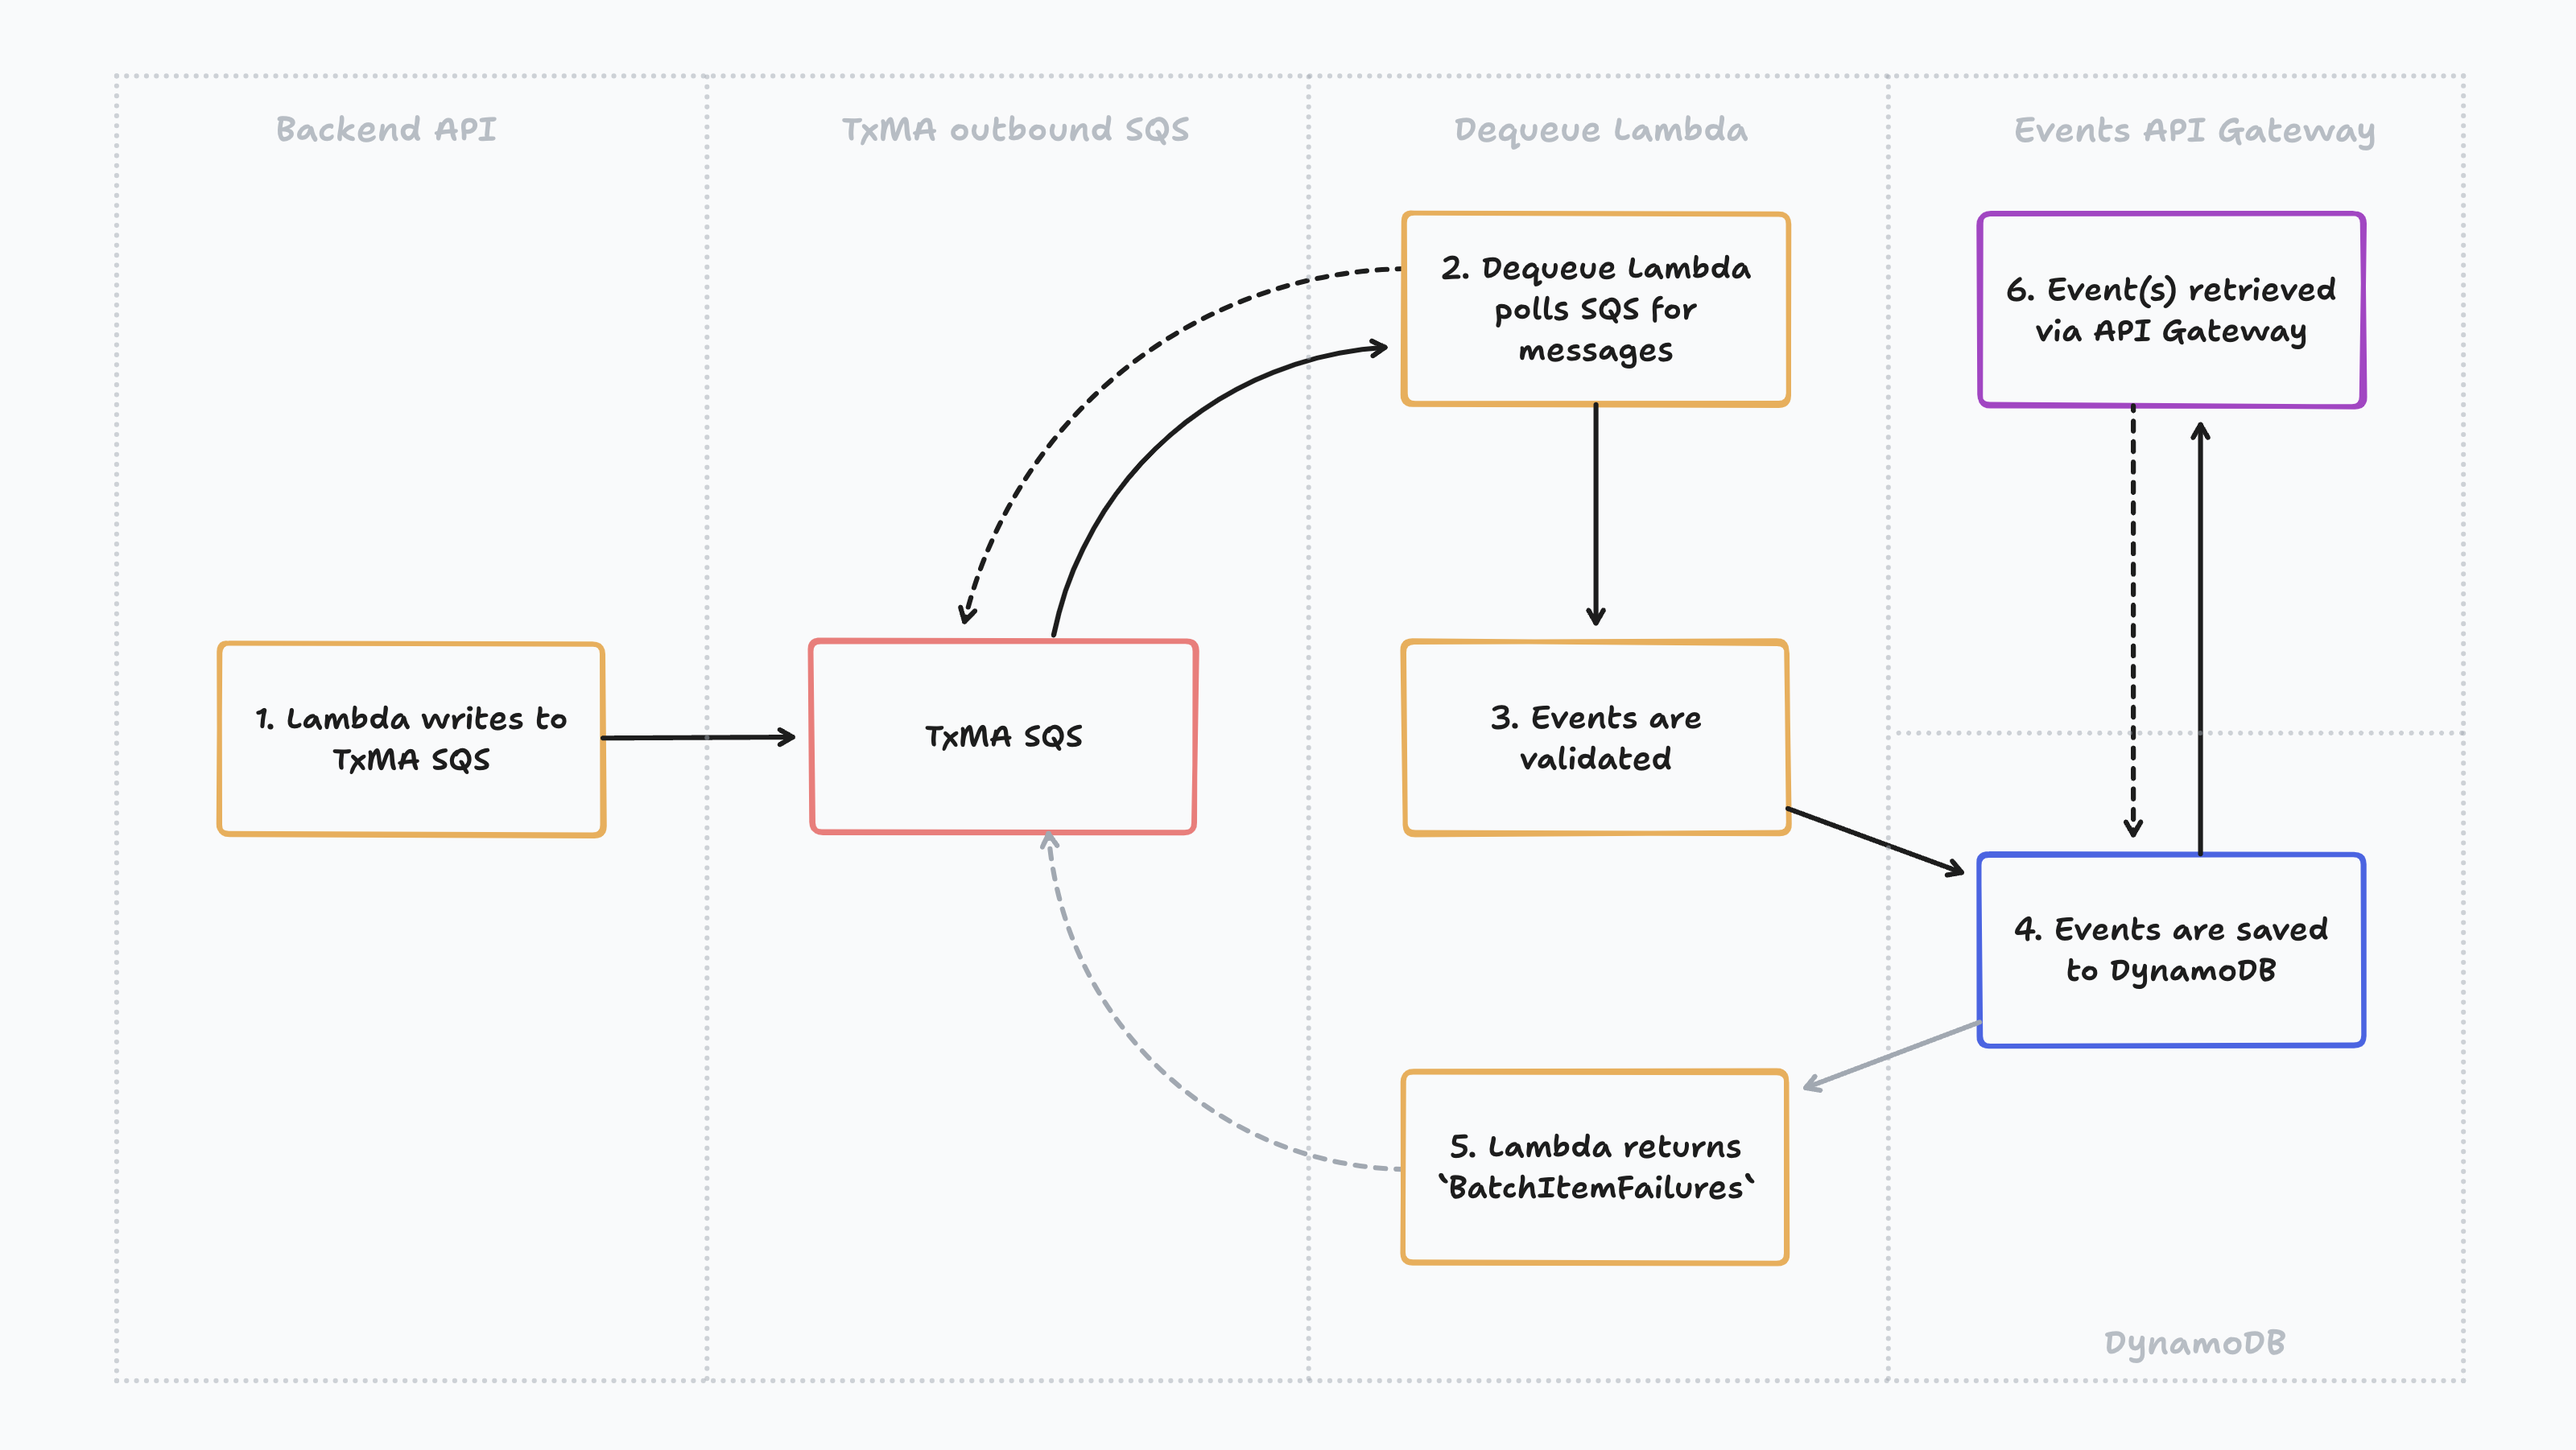
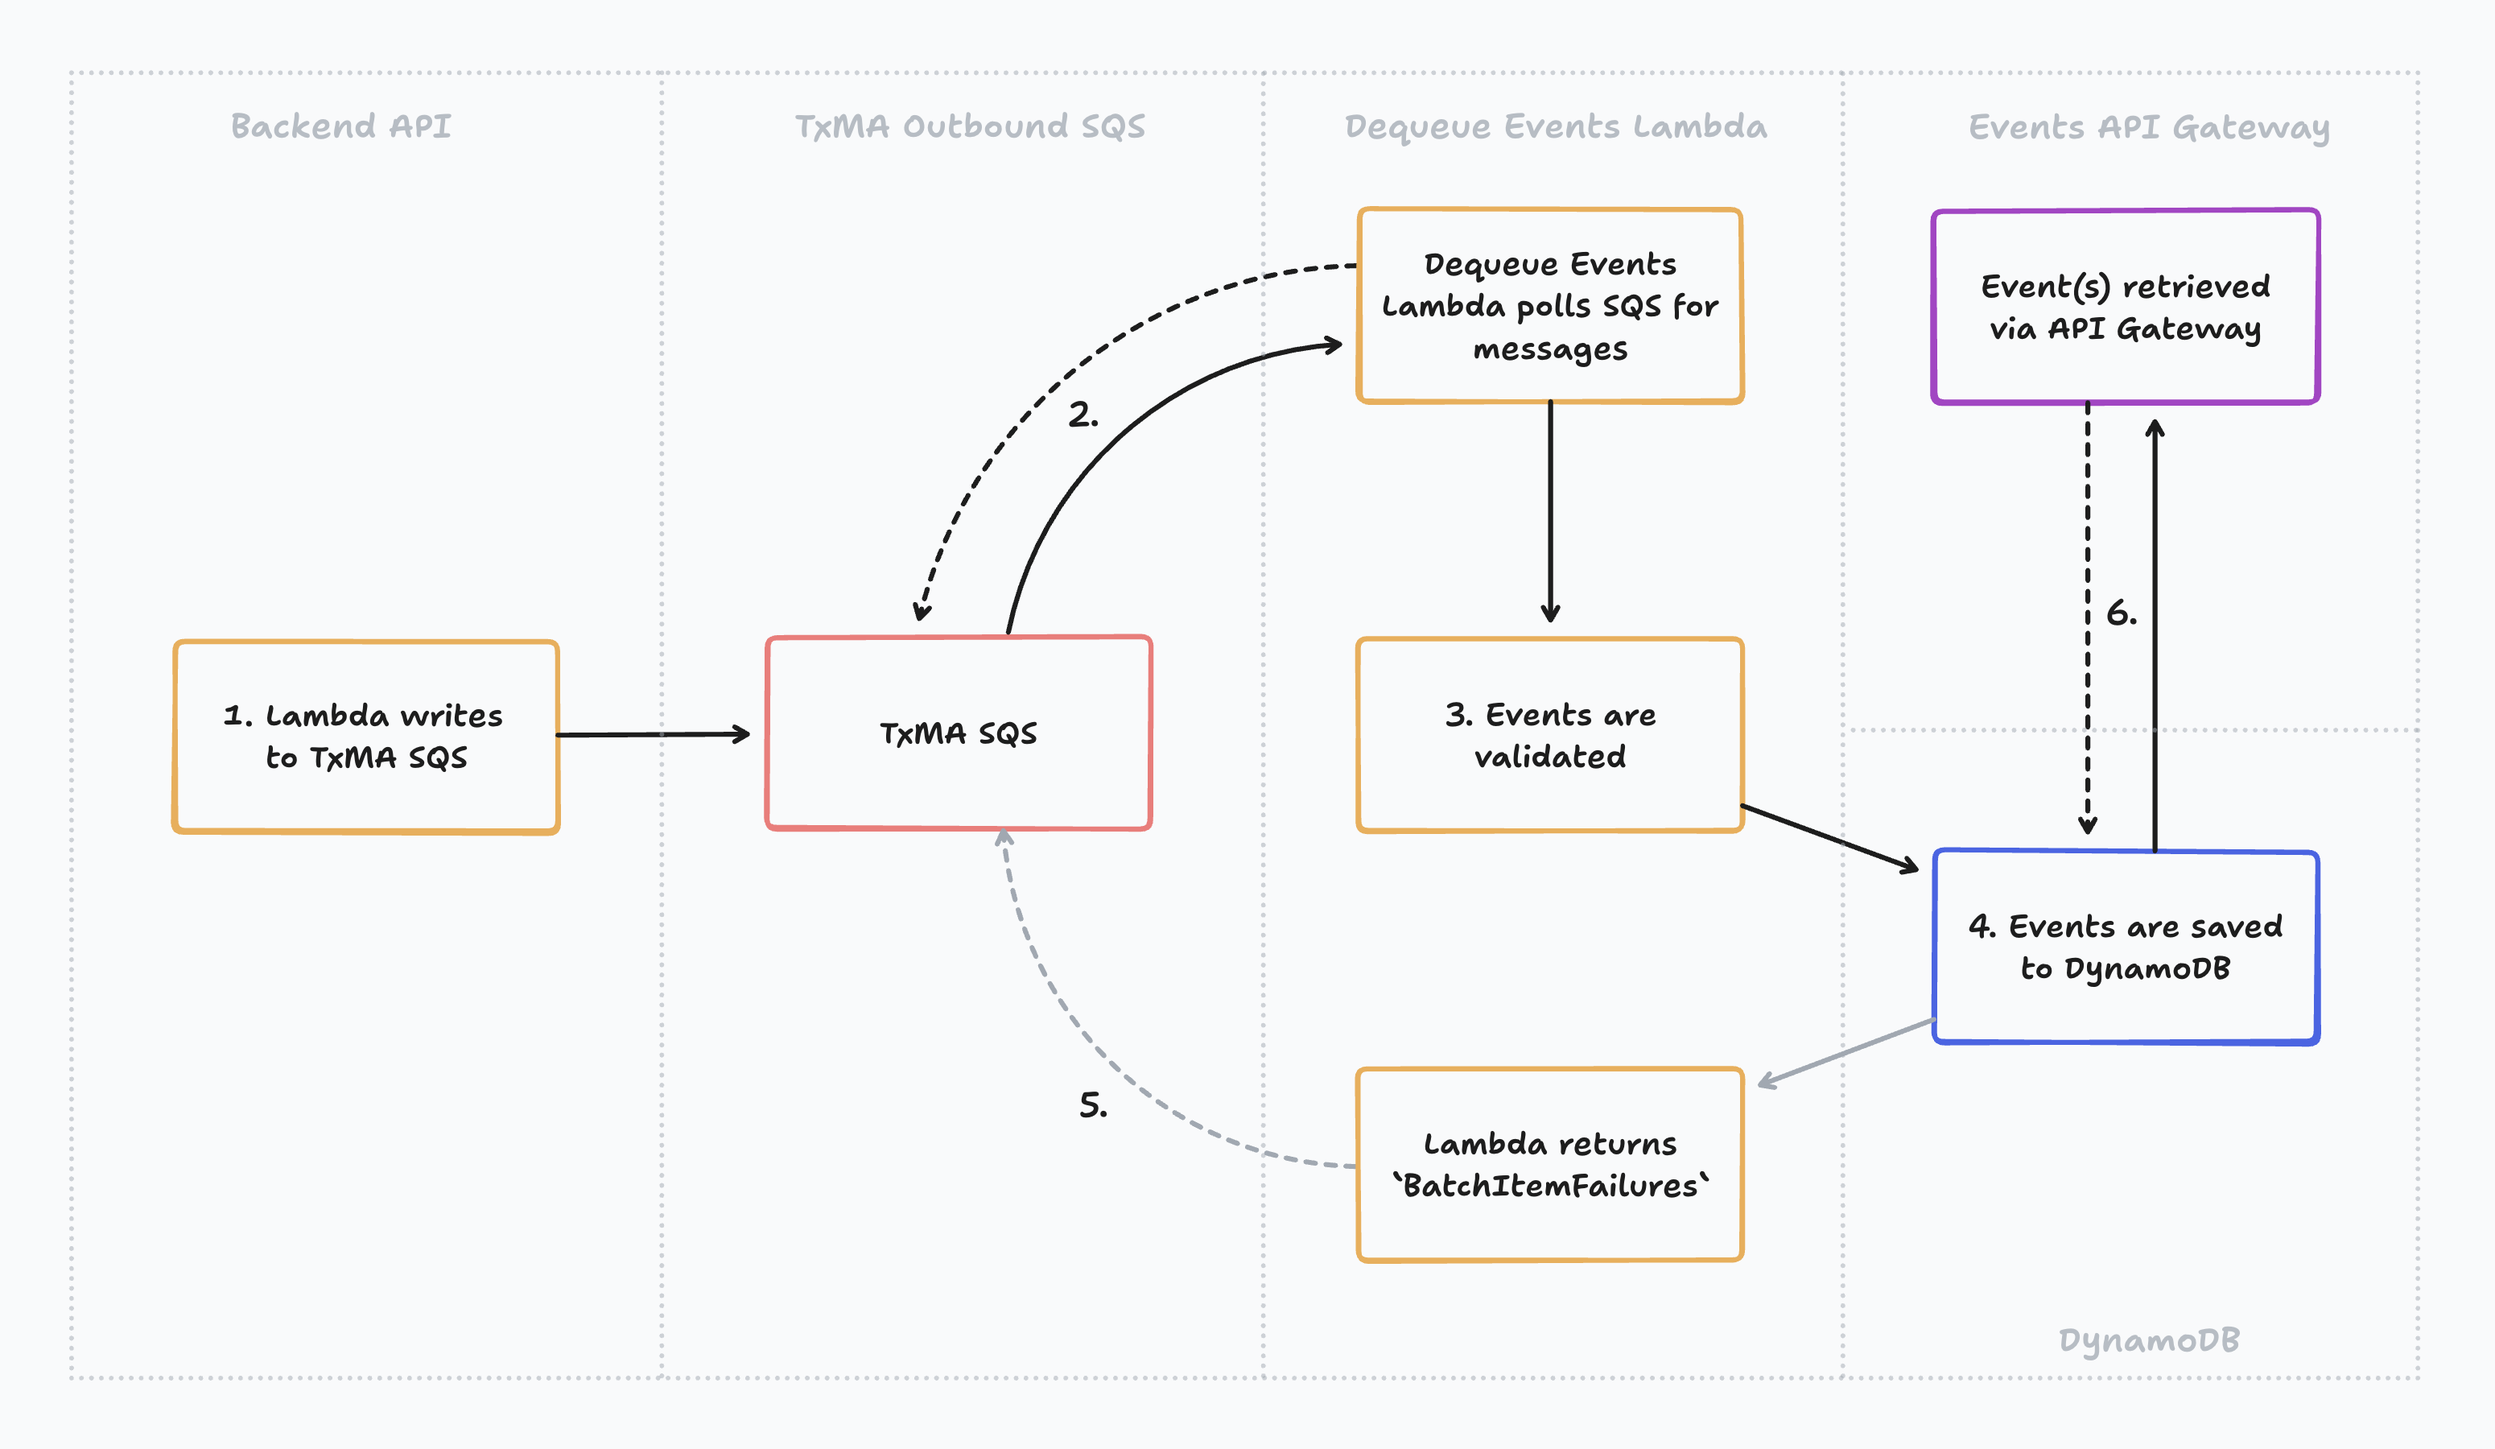
DCMAW-13772: Rename references to Dequeue Events functionality (#797)

diff --git a/test-resources/src/functions/dequeueEvents/tests/dequeueEventsHandler.test.ts b/test-resources/src/functions/dequeueEvents/tests/dequeueEventsHandler.test.ts
@@ -9,7 +9,7 @@ import { buildLambdaContext } from "../../testUtils/mockContext";
 import {
   IDequeueDependencies,
   lambdaHandlerConstructor,
-} from "../dequeueHandler";
+} from "../dequeueEventsHandler";
 import { TxmaEvent } from "../getEvent";
 import {
   eventNameMissingSQSRecord,
@@ -28,7 +28,7 @@ const env = {
   TXMA_EVENT_TTL_DURATION_IN_SECONDS: "3600",
 };
 
-describe("Dequeue TxMA events", () => {
+describe("Dequeue Events", () => {
   let dependencies: IDequeueDependencies;
   let context: Context;
   const mockDbClient = mockClient(DynamoDBClient);

diff --git a/test-resources/tests/infrastructure-tests/application.test.ts b/test-resources/tests/infrastructure-tests/application.test.ts
@@ -227,8 +227,8 @@ describe("STS mock infrastructure", () => {
       });
     });
 
-    test("Dequeue lambda is attached to a VPC and subnets are private", () => {
-      const lambdaHandlers = ["dequeueHandler.lambdaHandler"];
+    test("Dequeue Events lambda is attached to a VPC and subnets are private", () => {
+      const lambdaHandlers = ["dequeueEventsHandler.lambdaHandler"];
       lambdaHandlers.forEach((lambdaHandler) => {
         template.hasResourceProperties("AWS::Serverless::Function", {
           Handler: lambdaHandler,

diff --git a/test-resources/src/functions/common/dequeueDynamoDbAdapter/dequeueDynamoDbAdapter.test.ts b/test-resources/src/functions/common/dequeueDynamoDbAdapter/dequeueDynamoDbAdapter.test.ts
@@ -4,7 +4,7 @@ import { mockClient } from "aws-sdk-client-mock";
 import {
   mockPutItemInput,
   NOW_IN_MILLISECONDS,
-} from "../../dequeue/tests/testData";
+} from "../../dequeueEvents/tests/testData";
 import "../../testUtils/matchers";
 import { emptyFailure, emptySuccess, Result } from "../utils/result";
 import {

diff --git a/test-resources/tests/api-tests/dequeueEvents/dequeueEvents.test.ts b/test-resources/tests/api-tests/dequeueEvents/dequeueEvents.test.ts
@@ -137,7 +137,6 @@ async function pollForEvents(
   return events as EventResponse[];
 }
 
-// Call /events API
 async function getEvents(
   partitionKey: string,
   sortKeyPrefix: string,

diff --git a/backend-api/tests/api-tests/utils/apiTestHelpers.ts b/backend-api/tests/api-tests/utils/apiTestHelpers.ts
@@ -251,7 +251,6 @@ export async function pollForEvents({
   return events as EventResponse[];
 }
 
-// Call /events API
 async function getEvents({
   partitionKey,
   sortKeyPrefix,

diff --git a/test-resources/docs/dequeueEvents.md b/test-resources/docs/dequeueEvents.md
@@ -1,4 +1,4 @@
-# Dequeue events
+# Dequeue Events
 
 ## Overview
 
@@ -15,13 +15,13 @@ an asynchronous flow.
 Events can be tested manually by inspecting the queue; however, it is not
 feasible to test events for every deployment.
 
-The Dequeue events functionality provides an automated test solution that can be
+The Dequeue Events functionality provides an automated test solution that can be
 used to replace the manual test effort and therefore can be run as part of
 regression suites in deployment pipelines.
 
 #### The solution
 
-The Dequeue events functionality provides an API Gateway for use in testing to
+The Dequeue Events functionality provides an API Gateway for use in testing to
 query and retrieve events that are sent to the TxMA SQS.
 
 The purpose of the Dequeue functionality is to switch from manual testing to an
@@ -37,7 +37,7 @@ retrieved and tested against with an API.
 
 <img src="dequeue_events_diagram.png">
 
-> ###### Dequeue events flow
+> ###### Dequeue Events flow
 
 ##
 
@@ -47,14 +47,14 @@ retrieved and tested against with an API.
 
 ##
 
-### [Dequeue Lambda](../src/functions/dequeue/dequeueHandler.ts)
+### [Dequeue Events Lambda](../src/functions/dequeueEvents/dequeueEventsHandler.ts)
 
 2. #### Lambda polls SQS for messages
 
-The Dequeue Lambda receives events in batches when new events are added to the
+The Dequeue Events Lambda receives events in batches when new events are added to the
 backend API SQS queue. This is done using an
 [`EventSourceMapping` AWS resource](https://docs.aws.amazon.com/AWSCloudFormation/latest/UserGuide/aws-resource-lambda-eventsourcemapping.html)
-(an example can be found in the [SAM template](../../../infra/dequeue/function.yaml)).
+(an example can be found in the [SAM template](../infra/dequeueEvents/function.yaml)).
 
 > The number of TxMA events that are sent in a batch can be configuring by
 specifying the `BatchSize` on the `EventSourceMapping` resource.
@@ -128,13 +128,13 @@ written to DynamoDB, only the messages that failed to write are returned in this
 array. This is known as a
 [partial batch response](https://docs.aws.amazon.com/lambda/latest/dg/services-sqs-errorhandling.html#services-sqs-batchfailurereporting).
 
-Batch items being worked on by the Dequeue Lambda are considered 'in-fight' and
+Batch items being worked on by the Dequeue Events Lambda are considered 'in-fight' and
 cannot be processed by other consumers of the backend API SQS queue due to the
 [visibility timeout](https://docs.aws.amazon.com/AWSSimpleQueueService/latest/SQSDeveloperGuide/sqs-visibility-timeout.html).
 
 ##
 
-### Events API
+### Test Resources API
 
 6. #### Retrieving events
 

diff --git a/test-resources/README.md b/test-resources/README.md
@@ -7,8 +7,8 @@ This stack manages the following resources needed for the STS mock API:
 * a REST API and a Lambda function for the `/token` endpoint
 * an S3 bucket for storing the private key and also storing and serving the public key (`/.well-known/jwks.json`)
 
-### Dequeue
-This provides functionality to retrieve events sent to the TxMA SQS (for more, see the [Dequeue README](./docs/dequeue.md)). This can then be used to validate TxMA SQS events in the backend API test suite.
+### Dequeue Events
+This provides functionality to retrieve events sent to the TxMA SQS (for more, see the [Dequeue Events README](./docs/dequeueEvents.md)). This can then be used to validate TxMA SQS events in the backend API test suite.
 
 ## Pre-requisites
 - Node.js v22
